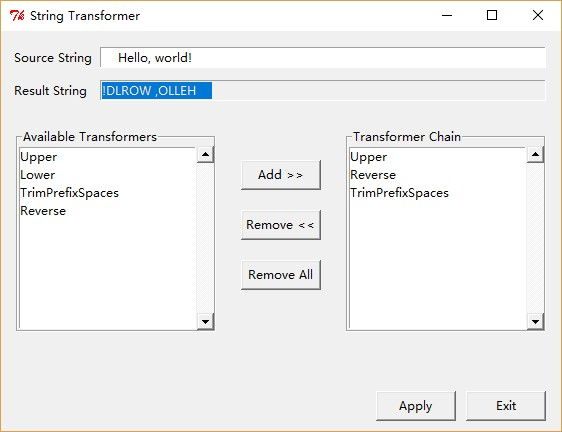
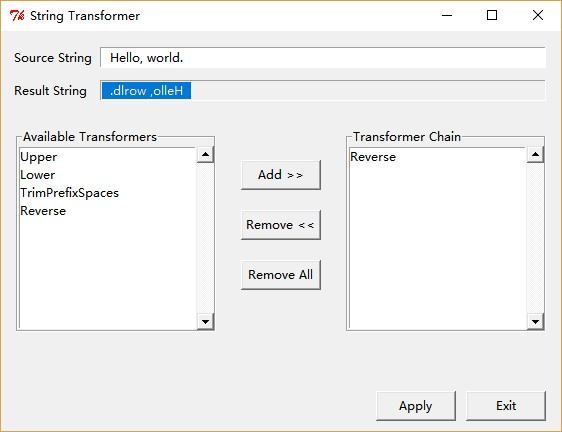
TDD String Transformer Python

Changed region(s): [[0.605, 0.3611, 0.7865, 0.4815], [0.1815, 0.1806, 0.3932, 0.2407], [0.1815, 0.1204, 0.363, 0.1505]]

diff --git a/TDD/TDD Coding Practice String Transformer/Code/Python/dummy/reverse/tests/test_businesslogicimpl.py b/TDD/TDD Coding Practice String Transformer/Code/Python/dummy/reverse/tests/test_businesslogicimpl.py
@@ -9,7 +9,8 @@ class TestBusinessLogicImpl(unittest.TestCase):
         self.impl = BusinessLogicImpl()
 
     def test_get_all_transes(self):
-        self.assertEquals([UPPER_TRANS, LOWER_TRANS, TRIM_PREFIX_SPACES_TRANS], self.impl.get_all_transes())
+        self.assertEquals([UPPER_TRANS, LOWER_TRANS, TRIM_PREFIX_SPACES_TRANS, REVERSE_TRANS],
+                          self.impl.get_all_transes())
 
     def test_transform_upper(self):
         self.assertEquals('HELLO, WORLD.', self.impl.transform('Hello, world.', [UPPER_TRANS]))
@@ -21,6 +22,9 @@ class TestBusinessLogicImpl(unittest.TestCase):
         self.assertEquals('Hello, world.  ', self.impl.transform('  Hello, world.  ', [TRIM_PREFIX_SPACES_TRANS]))
         self.assertEquals('', self.impl.transform('  ', [TRIM_PREFIX_SPACES_TRANS]))
         self.assertEquals('Hello, world.  ', self.impl.transform('Hello, world.  ', [TRIM_PREFIX_SPACES_TRANS]))
+
+    def test_transform_reverse(self):
+        self.assertEquals('  .dlrow ,olleH  ', self.impl.transform("  Hello, world.  ", [REVERSE_TRANS]))
 
     def test_transform(self):
         self.assertEquals("hello, world.  ",

diff --git a/TDD/TDD Coding Practice String Transformer/Code/Python/dummy/reverse/businesslogic.py b/TDD/TDD Coding Practice String Transformer/Code/Python/dummy/reverse/businesslogic.py
@@ -10,7 +10,8 @@ class BusinessLogicImpl(BusinessLogic):
     TRANS_FUNC_MAP = {
         UPPER_TRANS:lambda s: BusinessLogicImpl.upper(s),
         LOWER_TRANS:lambda s: BusinessLogicImpl.lower(s),
-        TRIM_PREFIX_SPACES_TRANS:lambda s: BusinessLogicImpl.trim_prefix_spaces(s)}
+        TRIM_PREFIX_SPACES_TRANS:lambda s: BusinessLogicImpl.trim_prefix_spaces(s),
+        REVERSE_TRANS:lambda s: BusinessLogicImpl.reverse(s)}
 
     # Override
     def get_all_transes(self):
@@ -34,3 +35,7 @@ class BusinessLogicImpl(BusinessLogic):
     @staticmethod
     def trim_prefix_spaces(s):
         return s.lstrip()
+
+    @staticmethod
+    def reverse(s):
+        return s[::-1]

diff --git a/TDD/TDD Coding Practice String Transformer/Code/Python/dummy/reverse/test_all.py b/TDD/TDD Coding Practice String Transformer/Code/Python/dummy/reverse/test_all.py
@@ -1,0 +1,7 @@
+import unittest
+
+from tests.test_presenter import TestPresenter
+from tests.test_businesslogicimpl import TestBusinessLogicImpl
+
+if __name__ == '__main__':
+    unittest.main()

diff --git a/TDD/TDD Coding Practice String Transformer/Code/Python/dummy/reverse/trans.py b/TDD/TDD Coding Practice String Transformer/Code/Python/dummy/reverse/trans.py
@@ -1,0 +1,6 @@
+UPPER_TRANS = 'Upper'
+LOWER_TRANS = 'Lower'
+TRIM_PREFIX_SPACES_TRANS = 'TrimPrefixSpaces'
+REVERSE_TRANS = 'Reverse'
+
+NONE_SELECTED_INDEX = -1
